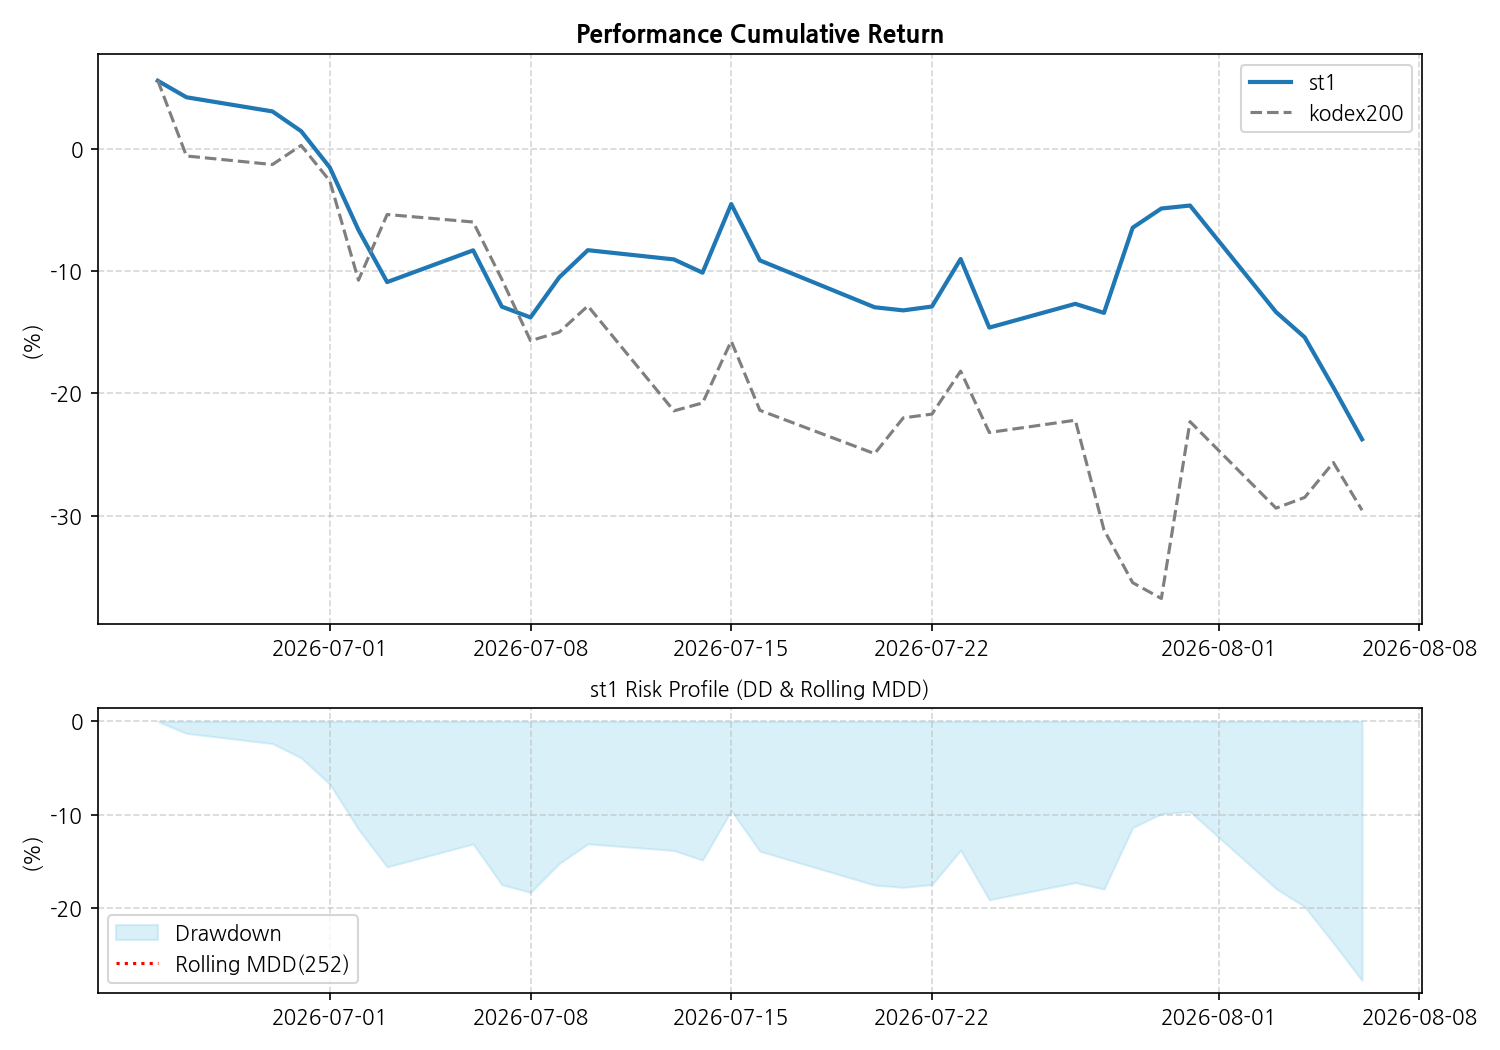
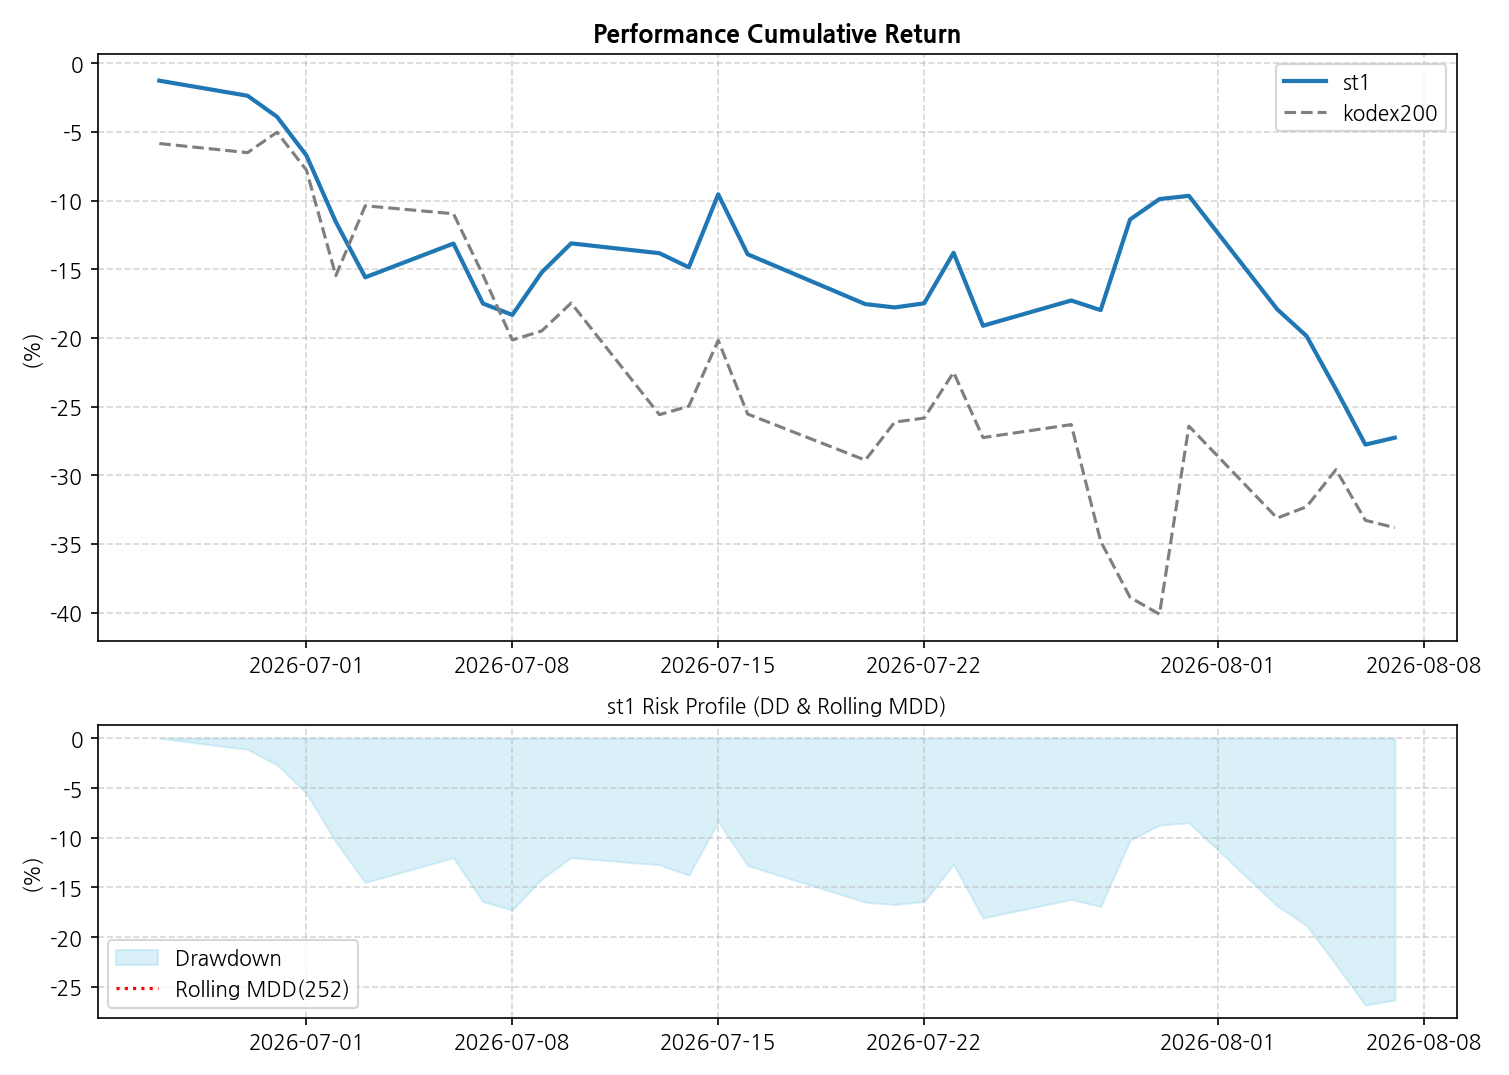
Auto commit

diff --git a/_pages/bt/bt_kodex.md b/_pages/bt/bt_kodex.md
@@ -2,7 +2,7 @@
 layout: post
 title: "BT, 오늘의 시그널(ETF)"
 author: Best Investor
-date: 2026-08-06
+date: 2026-08-07
 category: BT
 mermaid: true
 parent: 포트폴리오
@@ -14,14 +14,14 @@ parent: 포트폴리오
 
 | 지표 | 전략 1 (S1) | 전략 2 (S2) | 차이 (Diff) |
 | :--- | :---: | :---: | :---: |
-| **오늘 수익률** | -5.27% | -5.24% | -0.03% |
-| **30일 수익률** | -23.77% | -29.57% | 5.8% |
-| **1년 수익률** | 279.51% | 126.55% | 152.96% |
-| **전체 수익률** | 1150.01% | 240.67% | 909.34% |
+| **오늘 수익률** | 0.7% | -0.8% | 1.5% |
+| **30일 수익률** | -27.27% | -33.82% | 6.55% |
+| **1년 수익률** | 281.29% | 124.15% | 157.14% |
+| **전체 수익률** | 1158.73% | 232.67% | 926.06% |
 | **MDD (1Y)** | -27.77% | -41.15% | 13.38%p |
 | **MDD (ALL)** | **-27.77%** | **-41.15%** | 13.38%p |
-| **샤프 (1Y)** | 3.11 | 1.71 | 1.4 |
-| **샤프 (ALL)** | **2.49** | **1.09** | 1.4 |
+| **샤프 (1Y)** | 3.12 | 1.69 | 1.43 |
+| **샤프 (ALL)** | **2.5** | **1.08** | 1.42 |
 
 ## 📉 누적 성과 및 리스크 차트
 1. **최근 30일:** ![30일](/img_st/st_kodex_cum_risk_30d.png)

diff --git a/_posts/signal/2026-04-01-signal.md b/_posts/signal/2026-04-01-signal.md
@@ -7,6 +7,18 @@ category: Jekyll
 ---
 ## 시그널  
 
+### 📊 2026-08-10 Morning Trading Signal
+
+- 📅 날짜: 2026-08-10  
+- ⏰ 시간: 08:45  
+- 🧾 종목: **KODEX 200**  
+- 📈 포지션: **상방**
+
+##### 🧭 Execution Plan
+- 🚀 진입: 오늘 시가_진입(매수)
+- 🎯 청산: 오늘 종가_청산
+
+
 ### 📊 2026-08-07 Afternoon Trading Signal
 
 - 📅 날짜: 2026-08-07  
